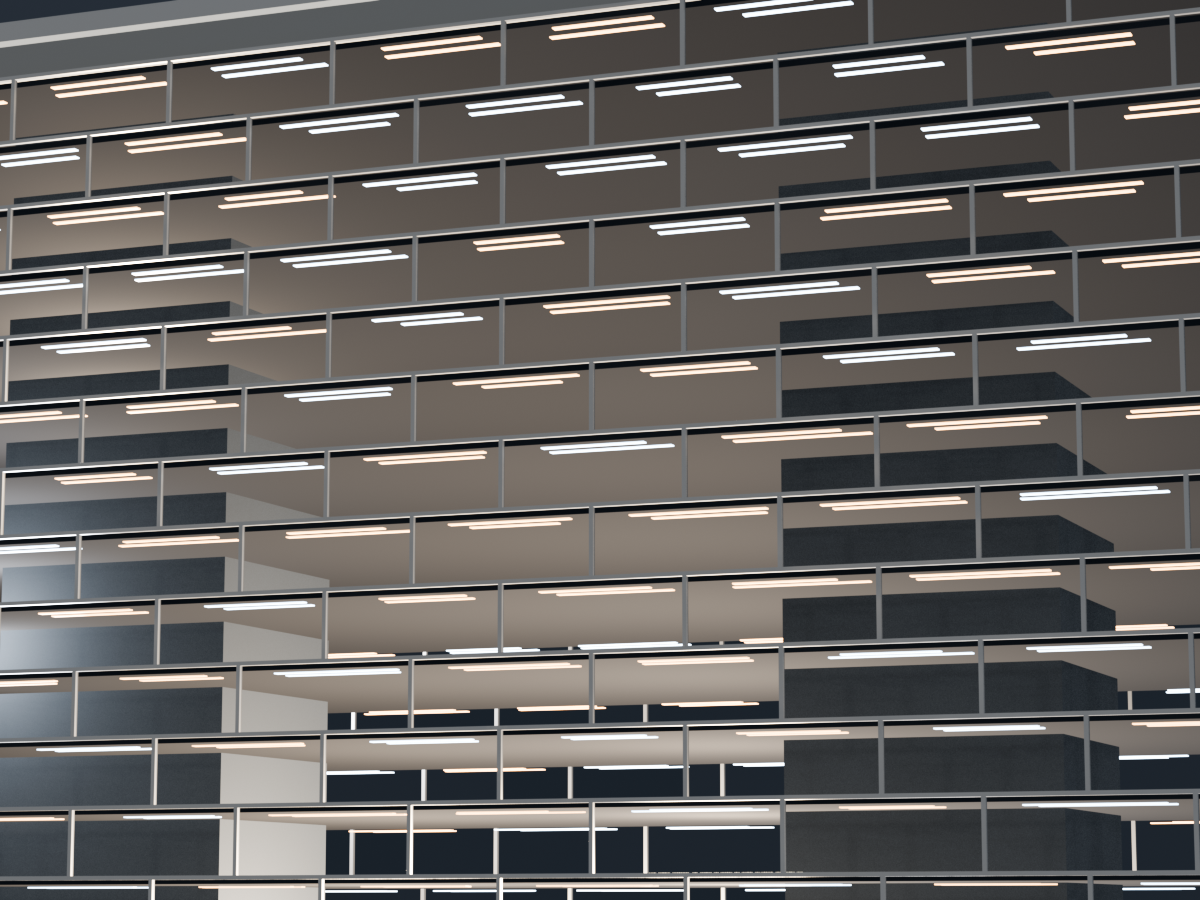
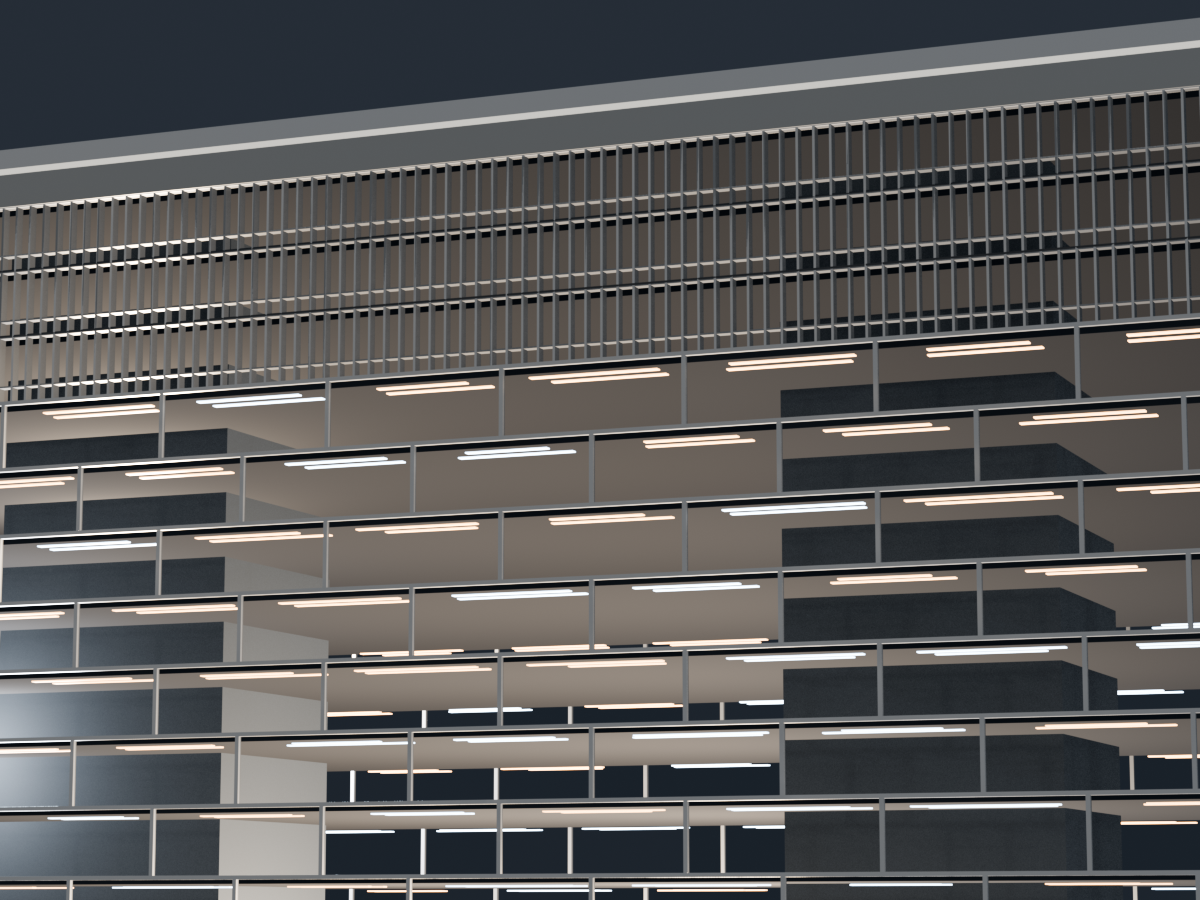
feat: trim the Stack 3 mall tiers and add three office-glazed flats
Each mall tier loses two 5 m floors (21.35 m per tier instead of 31.35), so the
lower block ends at 138 m and everything above moves down. The apartment band
gains three floors - 31 in all - and the top three are glazed with the office
curtain wall rather than the staggered block grid. Roof 294 m.

diff --git a/build_stack3.py b/build_stack3.py
@@ -59,7 +59,7 @@ PREFIX = "Stack3_"
 # ---------------------------------------------------------------------------
 # Frozen envelope and program
 # ---------------------------------------------------------------------------
-ROOF = 302.0              # flat roof deck; the stepped crown is gone
+ROOF = 294.0              # flat roof deck; the stepped crown is gone
 PARAPET_H = 1.2
 HEIGHT = ROOF + 0.4 + PARAPET_H    # 335.6 to the top of the parapet
 WIDTH = 108.0
@@ -72,14 +72,14 @@ STOREY_LOW = 5.0        # base / diagrid / plaza storey: 5 m, fewer floors
 
 def floor_levels():
     """Floor plates: 5 m storeys below the apartments, 4 m within them."""
-    return ([z for z in range(5, 186, 5)]
-            + [z for z in range(188, 301, 4)])
+    return ([z for z in range(5, 168, 5)]
+            + [z for z in range(168, 293, 4)])
 BAY = 3.6               # facade mullion module on the glazed bands
 
 BANDS = (
-    ("Lattice", 0.0, 158.0),
-    ("Plaza", 158.0, 188.0),
-    ("Apartments", 188.0, 302.0),
+    ("Lattice", 0.0, 138.0),
+    ("Plaza", 138.0, 168.0),
+    ("Apartments", 168.0, 294.0),
 )
 BAND = {name: (z0, z1) for name, z0, z1 in BANDS}
 
@@ -435,19 +435,45 @@ def build_cornices(mats, cols):
 # ---------------------------------------------------------------------------
 # Band 1: one big X lattice over the whole lower block
 # ---------------------------------------------------------------------------
-def build_lattice(mats, cols, rng):
-    """The lower 190 m is one facade: a bold external frame three bays wide by
-    three tiers tall, with an X brace in every cell and glass behind it.
+def office_frames(mats, col, prefix, z0, z1):
+    """Stack 2's office curtain wall: 140 x 600 mullions on a 0.95 m module, a
+    transom on every floor and a second one a metre above, plus the dark sill."""
+    mull = Part(prefix + "_Mullions", mats["silver"], col)
+    trans = Part(prefix + "_Transoms", mats["silver"], col)
+    sill = Part(prefix + "_Sills", mats["slate"], col)
+    for face in FACES:
+        half = face_half(face)
+        n = max(8, int(round(2 * half / 0.95)))
+        step = 2 * half / n
+        for i in range(n + 1):
+            u = -half + i * step
+            mull.face_box(face, u - 0.07, u + 0.07, z0, z1, -0.60, 0.60)
+        floors = [lev for lev in floor_levels() if z0 - 0.5 <= lev <= z1]
+        if not floors or floors[0] > z0 + 0.5:
+            floors = [z0] + floors
+        for a, b in zip(floors, floors[1:]):
+            trans.face_box(face, -half, half, b - 0.05, b + 0.05, -0.60, 0.60)
+            if a + 1.05 < b:
+                trans.face_box(face, -half, half, a + 0.95, a + 1.05,
+                               -0.60, 0.60)
+            sill.face_box(face, -half, half, a + 0.02, a + 0.14, -0.10, 0.10)
+    mull.finish()
+    trans.finish()
+    sill.finish()
 
-    This follows the reference tower the client pointed at - three crosses per
-    row, three rows - and replaces the earlier glazed base plus diagrid split.
-    """
+
+def build_lattice(mats, cols, rng):
+    """The lower block: a big external frame, two mall tiers of very large glass
+    at the foot and three tiers of X bracing above, with Stack 2's office
+    curtain wall behind the braced part."""
     z0, z1 = BAND["Lattice"]
     col = cols["Lattice"]
-    bays, tiers = 6, 5
+    bays, tiers, base_tiers = 6, 5, 2
     inset = 0.62
-    tier_h = (z1 - z0) / tiers
-    base_top = z0 + inset + 2 * ((z1 - z0) - 2 * inset) / tiers
+    base_tier = 21.35                     # mall tiers: two floors shorter
+    base_top = z0 + inset + base_tiers * base_tier
+    x_tier = ((z1 - z0) - 2 * inset - base_tiers * base_tier) / (
+        tiers - base_tiers)
 
     glass = Part("Lattice_Glass", mats["glass_deep"], col)
     for face in FACES:
@@ -455,51 +481,14 @@ def build_lattice(mats, cols, rng):
         glass.face_box(face, -half, half, z0 + 0.2, z1 - 0.2, -0.12, 0.12)
     glass.finish()
 
-    # The window frame, straight from Stack 2's office curtain wall: mullions
-    # 140 mm on the face by 600 mm deep on a 0.95 m module, a 100 mm transom at
-    # every floor and a second one 1 m above it, plus a dark sill at the floor.
-    mull = Part("Lattice_Mullions", mats["silver"], col)
-    for face in FACES:
-        half = face_half(face)
-        n = max(8, int(round(2 * half / 0.95)))
-        step = 2 * half / n
-        for i in range(n + 1):
-            u = -half + i * step
-            mull.face_box(face, u - 0.07, u + 0.07, base_top, z1, -0.60, 0.60)
-    mull.finish()
+    # Office window frame above the mall only.
+    office_frames(mats, col, "Lattice", base_top, z1)
 
-    trans = Part("Lattice_Transoms", mats["silver"], col)
-    sill = Part("Lattice_Sills", mats["slate"], col)
-    for face in FACES:
-        half = face_half(face)
-        floors = [lev for lev in floor_levels()
-                  if base_top - 0.5 <= lev <= z1]
-        if not floors or floors[0] > base_top + 0.5:
-            floors = [base_top] + floors
-        for a, b in zip(floors, floors[1:]):
-            # storey-line transom, straddling the floor plate at its top
-            trans.face_box(face, -half, half, b - 0.05, b + 0.05,
-                           -0.60, 0.60)
-            # the low bar a metre above the floor
-            if a + 1.05 < b:
-                trans.face_box(face, -half, half, a + 0.95, a + 1.05,
-                               -0.60, 0.60)
-            # dark sill at the foot of the storey
-            sill.face_box(face, -half, half, a + 0.02, a + 0.14,
-                          -0.10, 0.10)
-    trans.finish()
-    sill.finish()
-
-    # A real curtain wall behind the big frame: narrow vertical panes between
-    # thin mullions, with a white spandrel band on every floor - the office
-    # glazing in the reference the client sent.
-    # The floor line is the slab edge itself - no added white band.
     band = Part("Lattice_Slab_Edges", mats["slate"], col)
     for face in FACES:
         half = face_half(face)
-        base_top = z0 + inset + 2 * ((z1 - z0) - 2 * inset) / tiers
         for z in [0.0] + [lev for lev in floor_levels()
-                          if lev < base_top - 0.5]:
+                          if 0.0 < lev < base_top - 0.5]:
             lo = 0.0 if z <= 0.0 else z - 0.32
             hi = 0.40 if z <= 0.0 else z + 0.08
             band.face_box(face, -half, half, lo, hi, -0.56, 0.26)
@@ -510,11 +499,14 @@ def build_lattice(mats, cols, rng):
         half = face_half(face)
         hw = half - inset
         n = bays if face in LONG_FACES else 2
-        base_top = z0 + inset + 2 * ((z1 - z0) - 2 * inset) / tiers
         for i in range(n + 1):
             u = -hw + i * 2 * hw / n
             top = z1 if i in (0, n) else base_top
             frame.face_box(face, u - inset, u + inset, z0, top, -0.34, 0.60)
+        for j in range(base_tiers + 1):
+            z = z0 + inset + j * base_tier
+            frame.face_box(face, -half, half, z - inset, z + inset,
+                           -0.34, 0.60)
     frame.finish()
 
     brace = Part("Lattice_Braces", mats["silver"], col)
@@ -523,27 +515,26 @@ def build_lattice(mats, cols, rng):
         hw = half - inset
         n = bays if face in LONG_FACES else 2
         du = 2 * hw / n
-        dz = ((z1 - z0) - 2 * inset) / tiers
         for i in range(n):
-            for j in range(2, tiers):
+            for j in range(tiers - base_tiers):
                 u0 = -hw + i * du
                 u1 = u0 + du
-                za = z0 + inset + j * dz
-                zb = za + dz
+                za = base_top + j * x_tier
+                zb = za + x_tier
                 brace.bar(fp(face, u0, za, -0.05), fp(face, u1, zb, -0.05),
                           0.66, 0.95)
                 brace.bar(fp(face, u0, zb, -0.05), fp(face, u1, za, -0.05),
                           0.66, 0.95)
     brace.finish()
 
-    # The bottom two tiers carry no X: each cell becomes a big thick-framed
-    # square/rectangle of glass, two rows of six, closing the base.
+    # The bottom two tiers carry no X: each cell is a big thick-framed pane of
+    # glass, two rows of six, closing the mall.
     rails = Part("Lattice_Base_Rails", mats["silver"], col)
     for face in FACES:
         half = face_half(face)
         rail_h = 0.62
-        for j in (0, 1, 2):
-            z = z0 + inset + j * ((z1 - z0) - 2 * inset) / tiers
+        for j in range(base_tiers + 1):
+            z = z0 + inset + j * base_tier
             rails.face_box(face, -half, half, z - rail_h, z + rail_h,
                            -0.34, 0.60)
     rails.finish()
@@ -730,7 +721,9 @@ def build_apartments(mats, cols, rng):
     col = cols["Apartments"]
     attic = 2.0
     top = z1 - attic
-    courses = int(round((top - z0) / BLOCK_H))
+    # The top three floors are glazed like the office band, not the block grid.
+    office_top = top - 3 * BLOCK_H
+    courses = int(round((office_top - z0) / BLOCK_H))
     tones = ("pane_a", "pane_b", "pane_c")
 
     for face in FACES:
@@ -771,6 +764,15 @@ def build_apartments(mats, cols, rng):
         frame.finish()
         cool.finish()
         warm.finish()
+
+    # The top three floors: continuous glass with the office window frame.
+    cap_glass = Part("Apartment_Office_Glass", mats["glass"], col)
+    for face in FACES:
+        half = face_half(face)
+        cap_glass.face_box(face, -half, half, office_top + 0.1, top - 0.1,
+                           -0.12, 0.12)
+    cap_glass.finish()
+    office_frames(mats, col, "Apartment_Office", office_top, top)
 
     # A two-metre metal fascia closes the grid at the roof.
     cap = Part("Apartment_Topband", mats["mesh"], col)

diff --git a/verify_stack3.py b/verify_stack3.py
@@ -85,32 +85,32 @@ def main():
             "Lattice", "Plaza", "Apartment")),
         "plan is 108 m wide": abs((x1 - x0) - WIDTH) <= 2 * FACADE_RELIEF,
         "plan is 36 m deep": abs((y1 - y0) - DEPTH) <= 2 * FACADE_RELIEF,
-        "flat roof deck at 302 m": abs(z_span("Roof_Deck")[1] - 302.4) < 0.05,
-        "parapet tops at 303.6 m": abs(z1 - (302.0 + 0.4 + 1.2)) < 0.05,
+        "flat roof deck at 294 m": abs(z_span("Roof_Deck")[1] - 294.4) < 0.05,
+        "parapet tops at 295.6 m": abs(z1 - (294.0 + 0.4 + 1.2)) < 0.05,
         "slab sits on the ground": abs(z0) <= 0.02,
         "facade stays within its relief band": overhang <= FACADE_RELIEF,
-        "lattice glass 0-158 m": abs(z_span("Lattice_Glass")[0] - 0.2) < 0.05
-        and abs(z_span("Lattice_Glass")[1] - 157.8) < 0.05,
+        "lattice glass 0-138 m": abs(z_span("Lattice_Glass")[0] - 0.2) < 0.05
+        and abs(z_span("Lattice_Glass")[1] - 137.8) < 0.05,
         "lattice carries a frame and X braces": (
             present("Lattice_Frame") and present("Lattice_Braces")),
-        "lattice braces start above the solid base panels": (
-            63.0 <= z_span("Lattice_Braces")[0] <= 64.0
-            and 157.0 <= z_span("Lattice_Braces")[1] <= 157.9),
+        "lattice braces start above the mall glass": (
+            42.5 <= z_span("Lattice_Braces")[0] <= 43.8
+            and 137.0 <= z_span("Lattice_Braces")[1] <= 137.9),
         "bottom two tiers are framed cells, not X": (
             present("Lattice_Base_Rails")
             and abs(z_span("Lattice_Base_Rails")[0] - 0.0) < 0.05
-            and abs(z_span("Lattice_Base_Rails")[1] - 63.9) < 0.8),
+            and abs(z_span("Lattice_Base_Rails")[1] - 43.9) < 0.8),
         "no parking band remains": not any(
             n.startswith("Stack3_Parking") for n in names),
         "no fin band or old base remains": not any(
             n.startswith("Stack3_Office") or n.startswith("Stack3_Hotel")
             or n.startswith("Stack3_Base") for n in names),
-        "plaza arcade 158-188 m": abs(z_span("Plaza_Trees")[0] - 158.35) < 0.1,
-        "glazed apartment bays 188-300 m": (
-            188.0 <= z_span("Apartment_Glass_S")[0] <= 188.4
-            and 299.6 <= z_span("Apartment_Glass_S")[1] <= 300.0),
-        "attic closes the band at 302 m":
-        z_span("Apartment_Topband")[1] == 302.0,
+        "plaza arcade 138-168 m": abs(z_span("Plaza_Trees")[0] - 138.35) < 0.1,
+        "glazed apartment bays 168-280 m": (
+            168.0 <= z_span("Apartment_Glass_S")[0] <= 168.4
+            and 279.6 <= z_span("Apartment_Glass_S")[1] <= 280.0),
+        "attic closes the band at 294 m":
+        z_span("Apartment_Topband")[1] == 294.0,
         "nothing stands above the roof": not any(
             n.startswith("Stack3_Crown") for n in names),
         "two long-axis cores": (
@@ -118,7 +118,7 @@ def main():
             and abs(bbox([bpy.data.objects["Stack3_Structure_Cores"]])[1] - 34.0) < 0.1),
         "floor plates: 5 m below, 4 m in the apartments": (
             abs(z_span("Structure_Floors")[0] - 4.65) < 0.05
-            and abs(z_span("Structure_Floors")[1] - 300.0) < 0.05),
+            and abs(z_span("Structure_Floors")[1] - 292.0) < 0.05),
         "shallow slab reads as a slab": (WIDTH / DEPTH) > 2.6,
         "every mesh has a material": all(o.data.materials for o in meshes),
         "closed meshes": boundary_edges == 0,

diff --git a/README.md b/README.md
@@ -233,7 +233,7 @@ stack of neighbourhoods, each with its own facade language.
 The envelope follows the client direction for this generation: a little over
 100 m wide and only 36 m deep, i.e. a very flat slab. The model uses a 108 x 36 m
 plan; the crown was then dropped at the client's request, so the stack stops at
-the apartment band and the roof is completely flat at 302 m (303.6 m to the
+the apartment band and the roof is completely flat at 294 m (295.6 m to the
 parapet). That is a 2.80 : 1 wide elevation, squatter than the published sheet
 (3.09 : 1) because the lower block lost one lattice tier at the client's
 direction, but it keeps the 36 m depth.
@@ -243,7 +243,7 @@ as the "stack" lines between them. Below the apartments the storey is 5 m, so th
 lower block carries 37 floors in that height; the apartments keep their 4 m
 module and run 28 floors.
 
-- **Lattice, 0-158 m.** The whole lower block is one facade: an external frame six
+- **Lattice, 0-138 m.** The whole lower block is one facade: an external frame six
   bays wide by five tiers tall. The bottom two tiers are framed cells - six big
   glazed squares per row, closed by thick members, no X, and left as very large
   bare glass (a mall, no window grid) - while the upper three tiers are diagonal
@@ -258,9 +258,9 @@ module and run 28 floors.
   second one a metre above it, and the dark 100 mm sill at the foot of every
   storey - Stack 2's office band item for item. Every floor, here and in the planted level, is
   lit the same way as the apartments: one cool-or-warm ceiling strip per room.
-- **Plaza, 158-188 m.** A planted arcade of branching tree columns and planting,
+- **Plaza, 138-168 m.** A planted arcade of branching tree columns and planting,
   open through - no interior wall - with the same room strips on its floors.
-- **Apartments, 188-302 m.** A semi-transparent glazed skin drawn as a staggered
+- **Apartments, 168-294 m.** A semi-transparent glazed skin drawn as a staggered
   block grid: every bay is one 4 m storey of glass, laid in a half-bond running
   course, and the external frame around the bays is the window pattern itself -
   there are no punched openings. Three near-identical glass tints and a lit
@@ -270,7 +270,7 @@ module and run 28 floors.
   point lights scattered at random plan positions and heights standing in for
   the thousands of fixtures, warm and cool. Floor plates neither take light nor cast shadow, so the interior
   glow carries up and down the shaft instead of pooling on one plate.
-- **Flat roof, 302 m.** The tower stops at the apartment band: one deck slab and
+- **Flat roof, 294 m.** The tower stops at the apartment band: one deck slab and
   a 1.2 m parapet, nothing above it.
 
 The shallow plan is what makes the strata legible: with only 36 m of depth the
